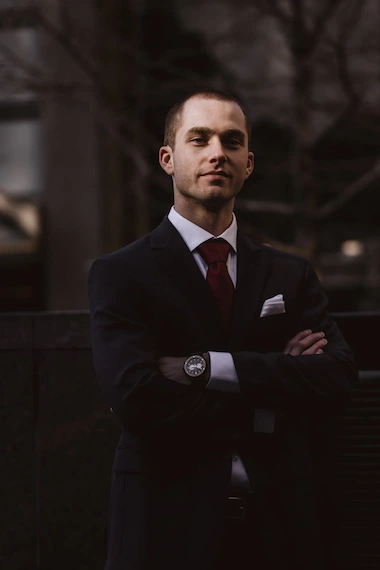
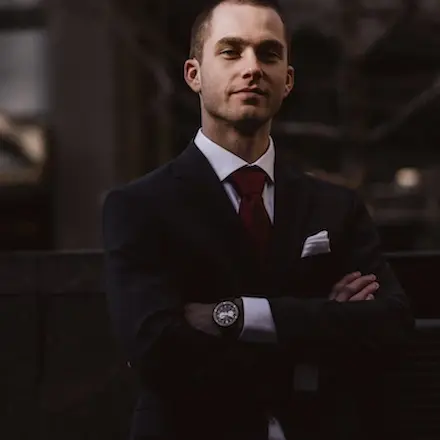
resize photos

diff --git a/assets/style.min.css b/assets/style.min.css
@@ -1,1 +1,1 @@
-body{max-width: 1920px;margin: auto}*{font-family: "Inter";font-style: normal}.top-header{background-color: white;position: sticky;top: 0;z-index: 1000;display: flex;justify-content: space-between;padding-inline: 100px;padding-block: 30px;align-items: center}.top-header .name{font-size: 26px}.nav ul{display: flex;list-style-type: none;font-size: 14px;margin-bottom: 0}.nav li{padding-inline: 10px}.nav a{text-decoration: none;color: #000}.social-link img{width: 20px}#about{display: flex;background-color: #f6d2b8;padding-inline: 100px;padding-block: 100px;position: relative}.picture.left::before{content: " ";background-color: #e5975f;width: 374px;height: 329px;position: absolute;bottom: 0;left: 0;z-index: -1}.picture{flex: 1;margin: 0 20px;z-index: 0}.picture img{width: 100%}#about-me{flex: 2}.about-me__title{margin-top: 1em;margin-bottom: 60px;font-size: 30px}.about-me__introduction{font-family: "Spectral";font-weight: 800;font-style: italic;width: 60%}#about-me p{width: 80%;font-size: 14px}#gallery{}.title{text-align: center;padding-block: 2em}.gallery .nav{justify-content: center;cursor: pointer;}.nav-pills .nav-link.active,.nav-pills .show > .nav-link{color: #fff;background-color: #7b5935;border-radius: 0}.nav-pills .nav-link{color: #000}.item-column{position: relative;margin-bottom: 0 !important;padding: 0}.item-column::after{content: "";display: block;padding-bottom: 100%}.gallery-item{position: absolute;width: 100%;height: 100%;object-fit: cover;padding: 0.5em}.mg-prev,.mg-next{width: 30px;height: 30px;border-radius: 00%;justify-content: center;align-items: center;display: flex;font-size: 24px}.quote{font-family: "Spectral";font-style: italic;width: 70%;margin: auto;padding-block: 3em}.quote__text{font-family: Spectral;font-style: italic;font-weight: 300}.quote__author{font-family: Spectral;font-weight: 800;font-size: 22px}#services{margin: auto;background-color: #a8d5d8;position: relative}#services .container::before{content: " ";background-color: #1c6474;position: absolute;width: 100%;height: 30%;bottom: 0;left: 0;z-index: 0}#services .container{justify-content: space-between;display: flex;padding: 2em 0}.service{background-color: white;max-width: 390px;width: 30%;height: 337px;padding: 1em;display: flex;flex-direction: column;justify-content: space-between;z-index: 1}#contact{margin: auto;background-color: #d8d3a8;position: relative;padding-inline: 100px;padding-block: 100px}#contact .container{display: flex}.picture.right::before{content: " ";background-color: #beb45a;width: 374px;height: 329px;position: absolute;bottom: 0;right: 0;z-index: -1}.form-container{flex: 2}form{display: flex;flex-direction: column;width: 70%;align-items: flex-start}form input{width: 100%;background-color: transparent;border: solid 1px;height: 2.5em;margin-bottom: 20px}form textarea{width: 100%;background-color: transparent;border: solid 1px;height: 5em;line-height: 2.5em;font-size: 1.2em;margin-bottom: 20px}input[type="submit"]{background-color: #beb45a;padding: 0.5em 1em}@media all and (max-width: 1180px){.picture{flex: 2}#about,#contact .container{align-items: center}.about-me__title{margin-top: 0;margin-bottom: 1em}#about-me h6,#about-me p{width: 100%}}@media all and (max-width: 1000px){#about{flex-direction: column}.picture{width: 50%}.picture.left::before{width: 100%;height: 30%;position: absolute;bottom: auto;top: 0;left: 0;z-index: -1}.about-me__title{text-align: center;margin-top: 1em}#services .container{flex-direction: column}.service{width: 100%;max-width: 100%;height: auto;margin: 2em 0}.service__description{margin-bottom: 1em}#services .container::before{width: 30%;height: 100%;bottom: 0;right: 0;left: auto;z-index: 0}#contact .container{flex-direction: column}#contact .picture.right{margin-top: 1em}.picture.right::before{width: 100%;height: 30%;position: absolute;bottom: 0;right: 0;z-index: -1}}@media all and (max-width: 650px){.top-header{flex-direction: column;padding-inline: 0}.top-header .nav,.top-header .nav ul{width: 100%;padding: 0 0 0 0}.top-header .nav li{flex: 1;padding-block: 1em;text-align: center}.picture.left::before,.picture.right::before{height: 150px}#services .container{align-items: center}.service{max-width: 90%}#about,#contact{padding-inline: 2em;padding-block: 2em}form{width: 100%}.picture{width: 80%}}
+body{max-width: 1920px;margin: auto}*{font-family: "Inter";font-style: normal}.top-header{background-color: white;position: sticky;top: 0;z-index: 1000;display: flex;justify-content: space-between;padding-inline: 100px;padding-block: 30px;align-items: center}.top-header .name{font-size: 26px}.nav ul{display: flex;list-style-type: none;font-size: 14px;margin-bottom: 0}.nav li{padding-inline: 10px}.nav a{text-decoration: none;color: #000}.social-link img{width: 20px}#about{display: flex;background-color: #f6d2b8;padding-inline: 100px;padding-block: 100px;position: relative}.picture.left::before{content: " ";background-color: #e5975f;width: 374px;height: 329px;position: absolute;bottom: 0;left: 0;z-index: -1}.picture{flex: 1;margin: 0 20px;z-index: 0}#about-me{flex: 2}.about-me__title{margin-top: 1em;margin-bottom: 60px;font-size: 30px}.about-me__introduction{font-family: "Spectral";font-weight: 800;font-style: italic;width: 60%}#about-me p{width: 80%;font-size: 14px}#gallery{}.title{text-align: center;padding-block: 2em}.gallery .nav{justify-content: center;cursor: pointer;}.nav-pills .nav-link.active,.nav-pills .show > .nav-link{color: #fff;background-color: #7b5935;border-radius: 0}.nav-pills .nav-link{color: #000}.item-column{position: relative;margin-bottom: 0 !important;padding: 0}.item-column::after{content: "";display: block;padding-bottom: 100%}.gallery-item{position: absolute;width: 100%;height: 100%;object-fit: cover;padding: 0.5em}.mg-prev,.mg-next{width: 30px;height: 30px;border-radius: 00%;justify-content: center;align-items: center;display: flex;font-size: 24px}.quote{font-family: "Spectral";font-style: italic;width: 70%;margin: auto;padding-block: 3em}.quote__text{font-family: Spectral;font-style: italic;font-weight: 300}.quote__author{font-family: Spectral;font-weight: 800;font-size: 22px}#services{margin: auto;background-color: #a8d5d8;position: relative}#services .container::before{content: " ";background-color: #1c6474;position: absolute;width: 100%;height: 30%;bottom: 0;left: 0;z-index: 0}#services .container{justify-content: space-between;display: flex;padding: 2em 0}.service{background-color: white;max-width: 390px;width: 30%;height: 337px;padding: 1em;display: flex;flex-direction: column;justify-content: space-between;z-index: 1}#contact{margin: auto;background-color: #d8d3a8;position: relative;padding-inline: 100px;padding-block: 100px}#contact .container{display: flex}.picture.right::before{content: " ";background-color: #beb45a;width: 374px;height: 329px;position: absolute;bottom: 0;right: 0;z-index: -1}.form-container{flex: 2}form{display: flex;flex-direction: column;width: 70%;align-items: flex-start}form input{width: 100%;background-color: transparent;border: solid 1px;height: 2.5em;margin-bottom: 20px}form textarea{width: 100%;background-color: transparent;border: solid 1px;height: 5em;line-height: 2.5em;font-size: 1.2em;margin-bottom: 20px}input[type="submit"]{background-color: #beb45a;padding: 0.5em 1em}@media all and (max-width: 1180px){.picture{flex: 2}#about,#contact .container{align-items: center}.about-me__title{margin-top: 0;margin-bottom: 1em}#about-me h6,#about-me p{width: 100%}}@media all and (max-width: 1000px){#about{flex-direction: column}.picture{width: 50%}.picture.left::before{width: 100%;height: 30%;position: absolute;bottom: auto;top: 0;left: 0;z-index: -1}.about-me__title{text-align: center;margin-top: 1em}#services .container{flex-direction: column}.service{width: 100%;max-width: 100%;height: auto;margin: 2em 0}.service__description{margin-bottom: 1em}#services .container::before{width: 30%;height: 100%;bottom: 0;right: 0;left: auto;z-index: 0}#contact .container{flex-direction: column}#contact .picture.right{margin-top: 1em}.picture.right::before{width: 100%;height: 30%;position: absolute;bottom: 0;right: 0;z-index: -1}}@media all and (max-width: 650px){.top-header{flex-direction: column;padding-inline: 0}.top-header .nav,.top-header .nav ul{width: 100%;padding: 0 0 0 0}.top-header .nav li{flex: 1;padding-block: 1em;text-align: center}.picture.left::before,.picture.right::before{height: 150px}#services .container{align-items: center}.service{max-width: 90%}#about,#contact{padding-inline: 2em;padding-block: 2em}form{width: 100%}.picture{width: 80%}}

diff --git a/index.html b/index.html
@@ -56,7 +56,7 @@
 					rel="noopener"
 					target="_blank"
 					><img src="assets/images/instagram.png" 
-					alt="logo instagram">
+					alt="logo instagram" width="20" height="20">
 					</a>
 				</li>
 			</ul>
@@ -91,7 +91,8 @@
 			<div class="carousel-item active">
 				<img 
 				src="./assets/images/slider/ryoji-iwata.webp" 
-				class="d-block w-100" alt="Homme qui traverse un passage piéton">
+				class="d-block w-100" alt="Homme qui traverse un passage piéton"
+				width="1920" height="888">
 			</div>
 			<div class="carousel-item">
 				<img src="./assets/images/slider/nicholas-green.webp" 
@@ -129,7 +130,7 @@
 	<section id="about">
 		<div class="picture left">
 			<img src="./assets/images/nina.webp"
-			alt="Portrait de la photographe Nina">
+			alt="Portrait de la photographe Nina" width="440" height="440">
 		</div>
 		<div id="about-me">
 			<h2 class="about-me__title">A propos de moi</h2>
@@ -280,7 +281,7 @@
 	</div>
 	<div class="picture right">
 		<img src="./assets/images/camera.webp"
-		alt="Photo de caméra proche">
+		alt="Photo de caméra proche" width="440" height="440">
 	</div>
 </div>
 </section>
